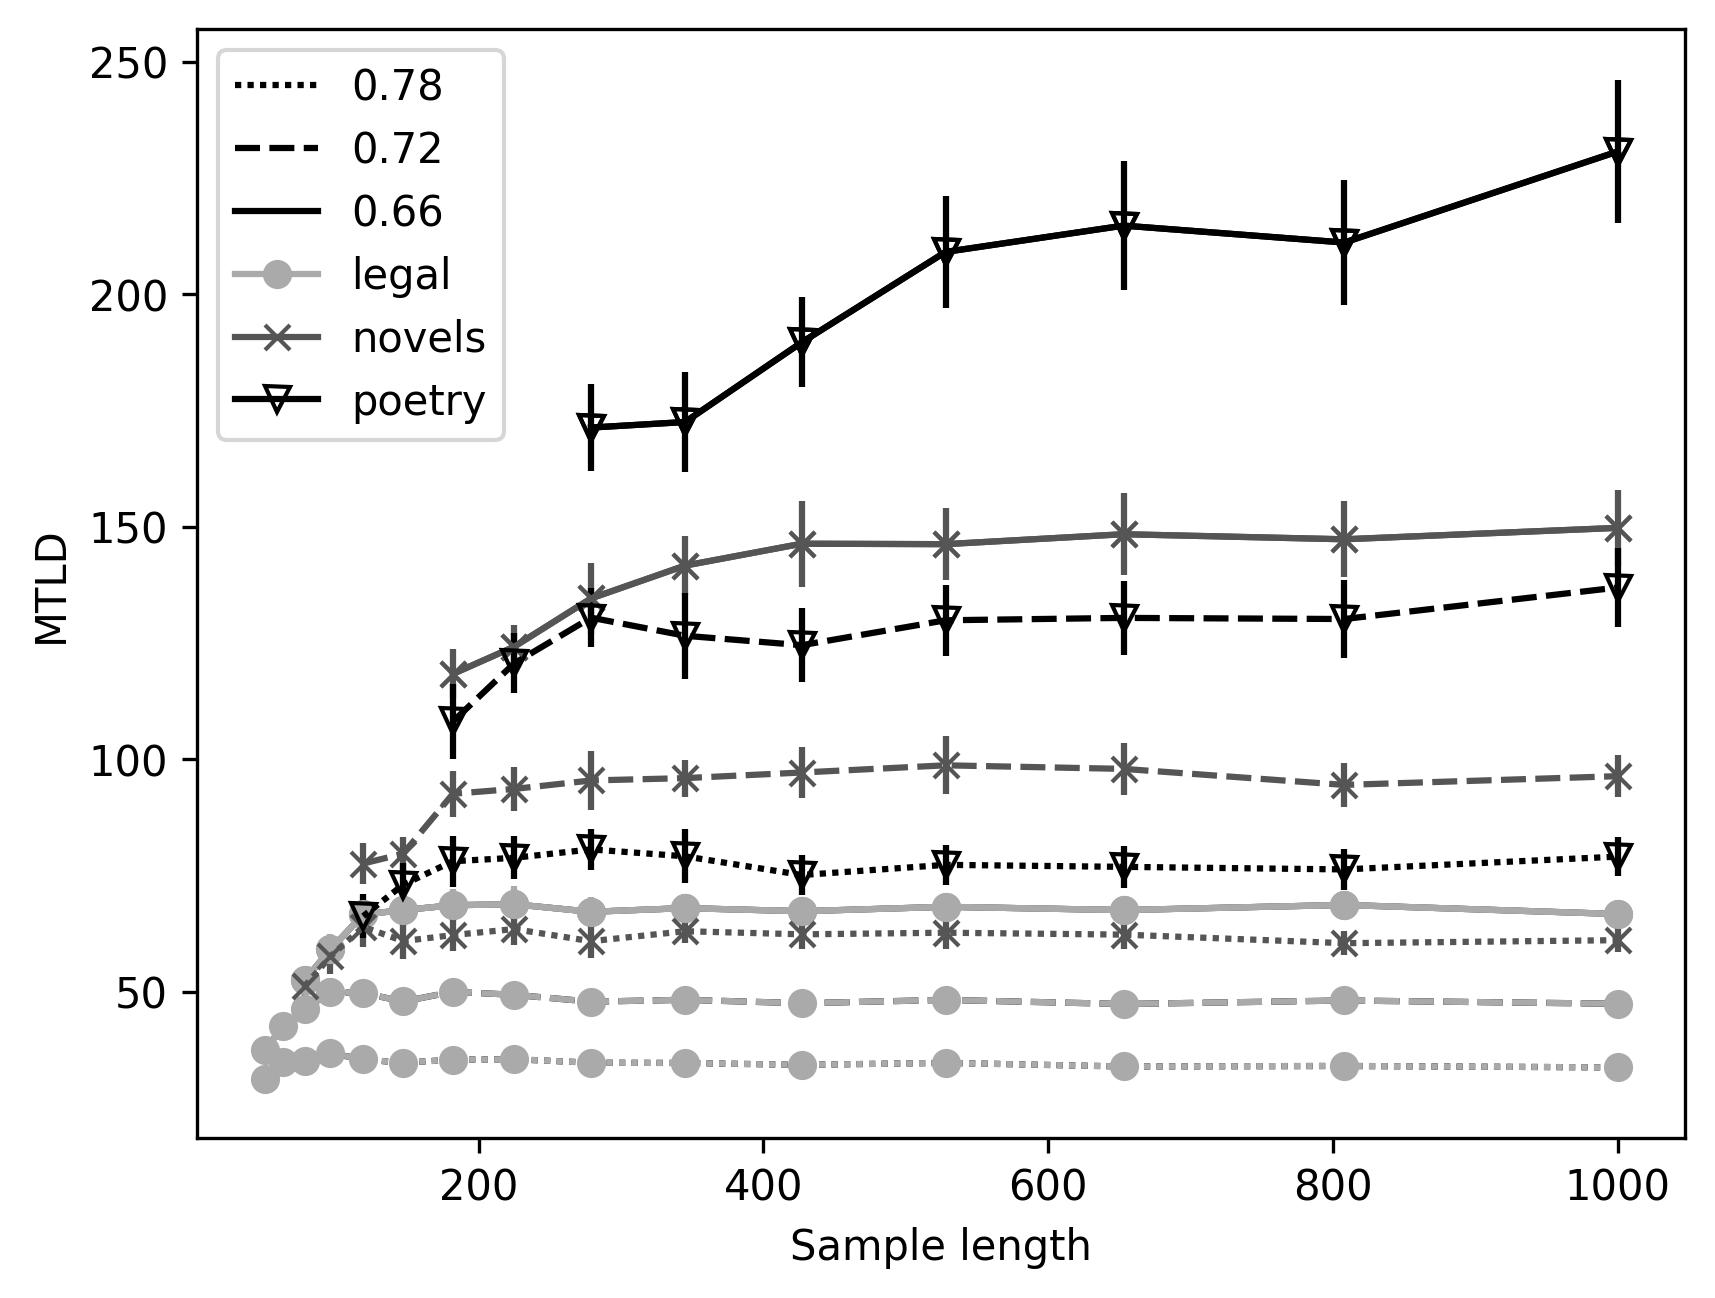
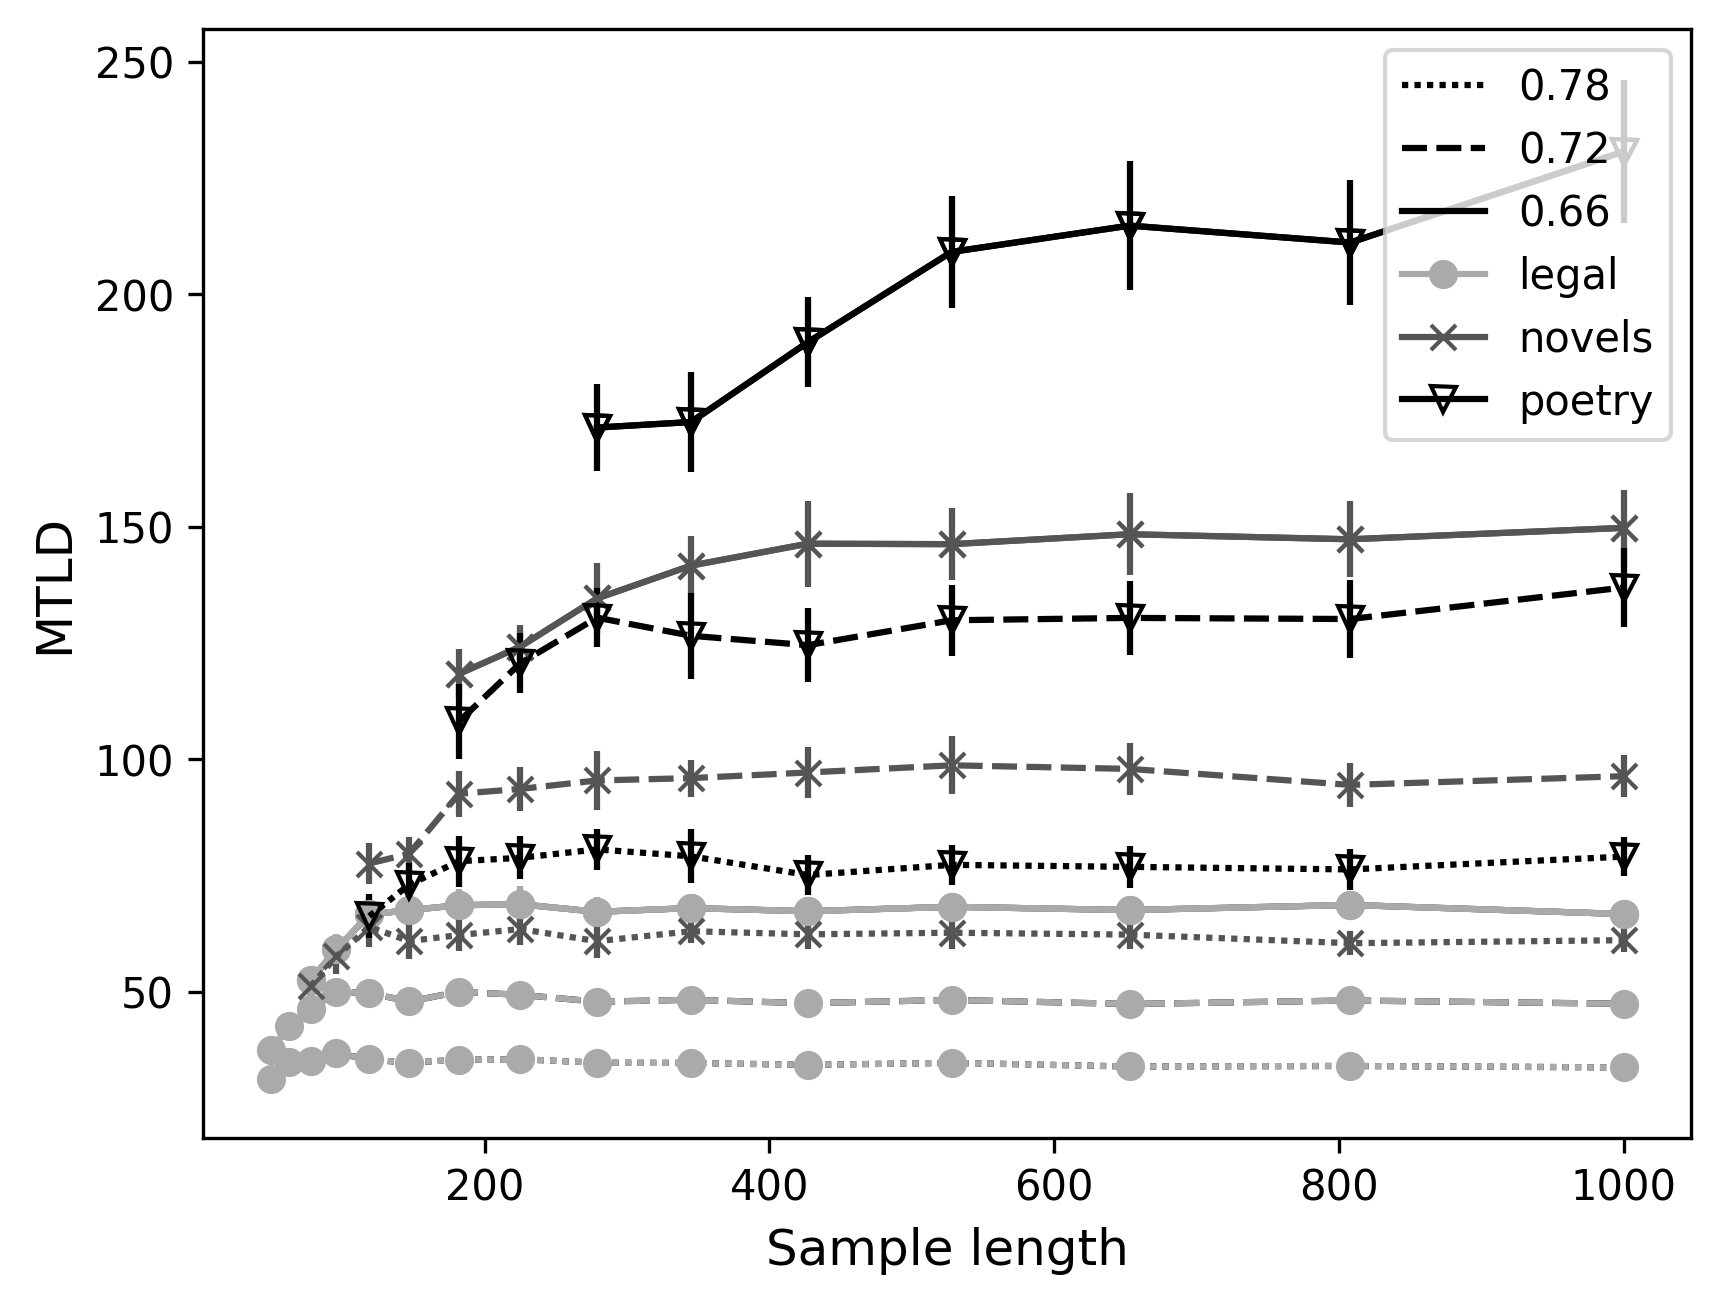
fine tune figures

diff --git a/src/sample_size_analyse_res.py b/src/sample_size_analyse_res.py
@@ -8,7 +8,7 @@ from matplotlib import cm
 # --- SCRIPT PARAMETERS
 # -------------------------------
 
-input_file_path = "../results/sample_size/results_large/large_merge.csv"
+input_file_path = "../results/sample_size/results_small/small_merge.csv"
 output_folder_path = "../results"
 output_file_prefix = "sample_size_plot"
 min_prop_to_compute_mtld = 0.6
@@ -94,8 +94,8 @@ for measure_name_id, measure_name in enumerate(measure_names):
                         linestyle=linestyles[subsample_len_id],
                         marker=markers[genre_id], 
                         fillstyle=fillstyles[genre_id])
-    plt.xlabel("Sample length")
-    plt.ylabel(measure_clean_names[measure_name_id])
+    plt.xlabel("Sample length", fontsize=12)
+    plt.ylabel(measure_clean_names[measure_name_id], fontsize=12)
     plt.legend(loc='upper right', fontsize='10')
     plt.savefig(f"{output_folder_path}/{output_file_prefix}_{measure_name}.png", 
                 dpi=300, bbox_inches='tight')
